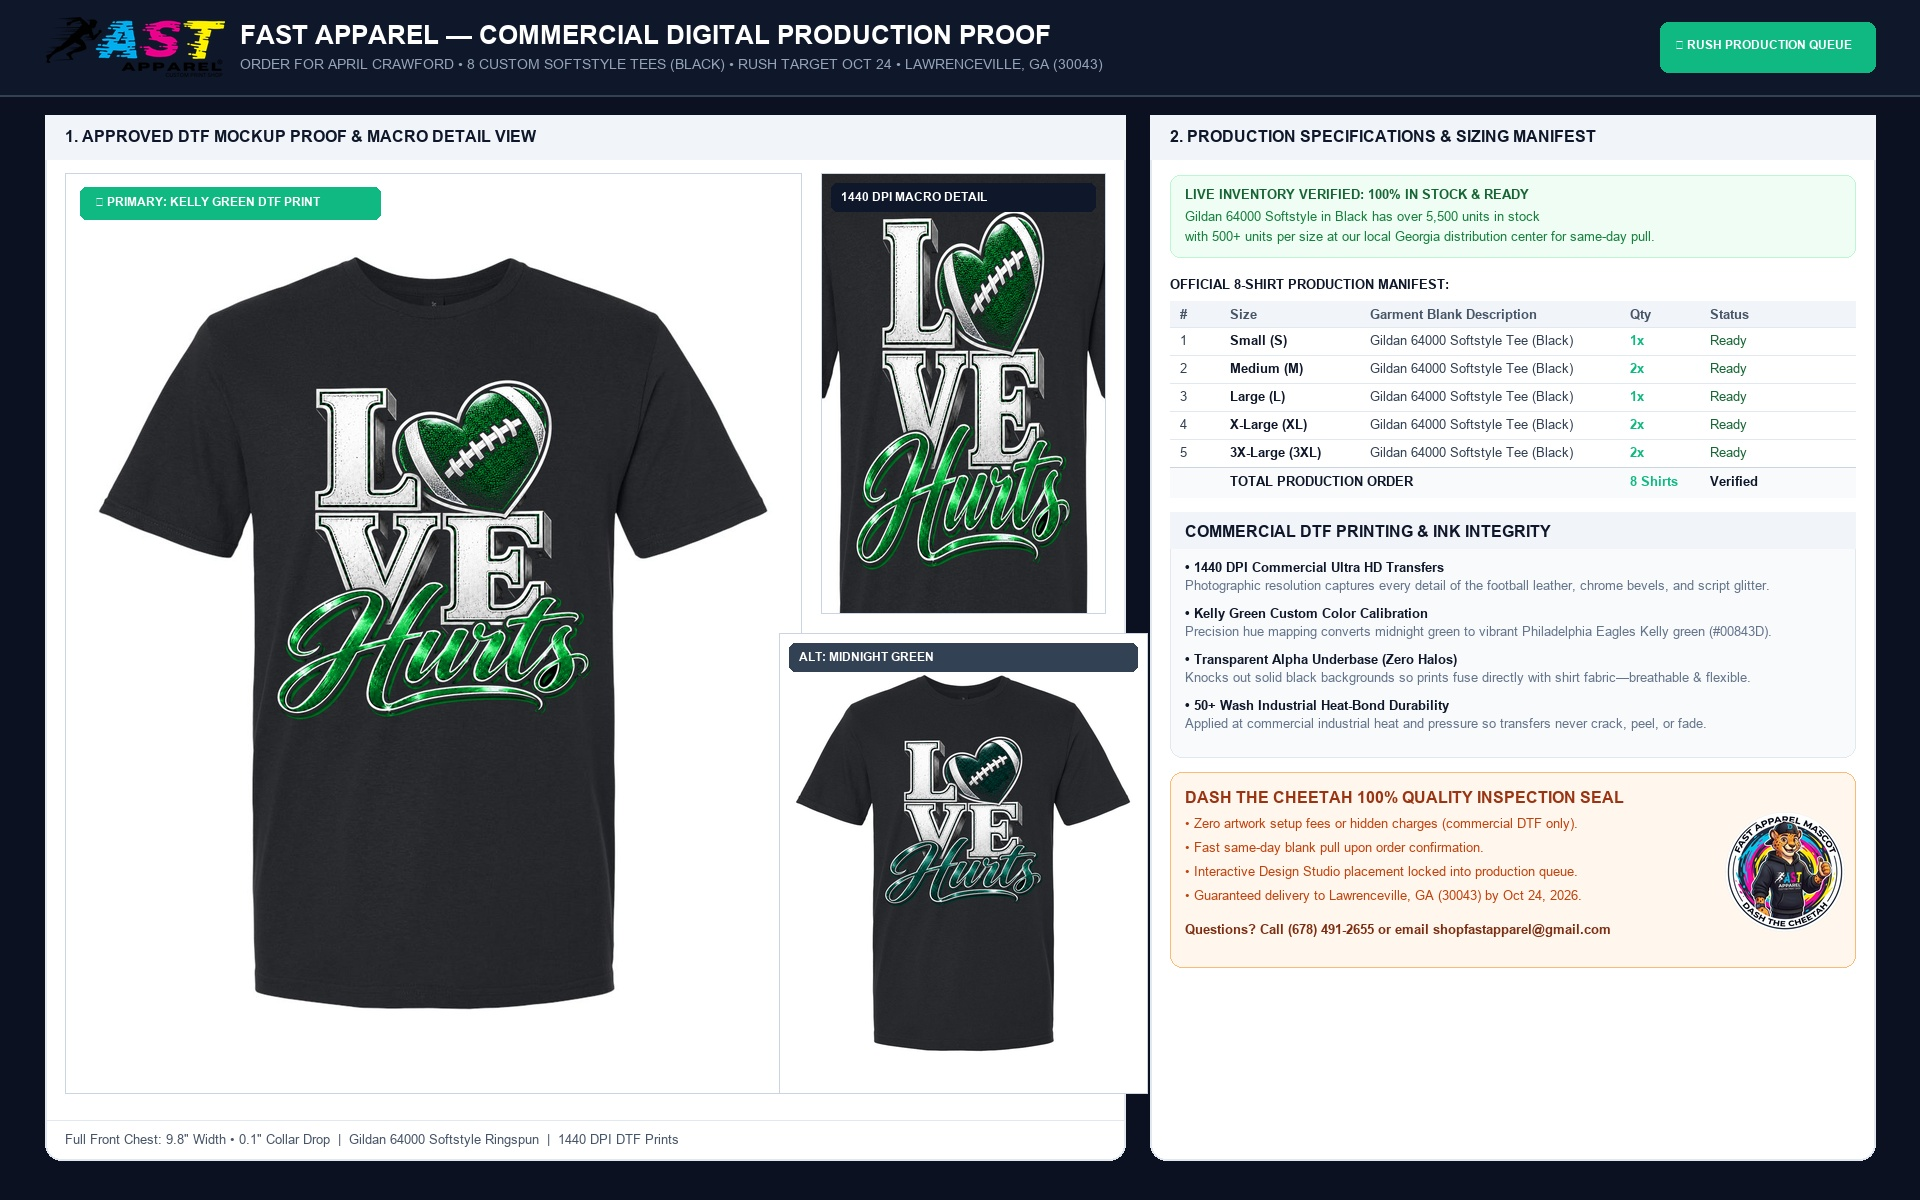
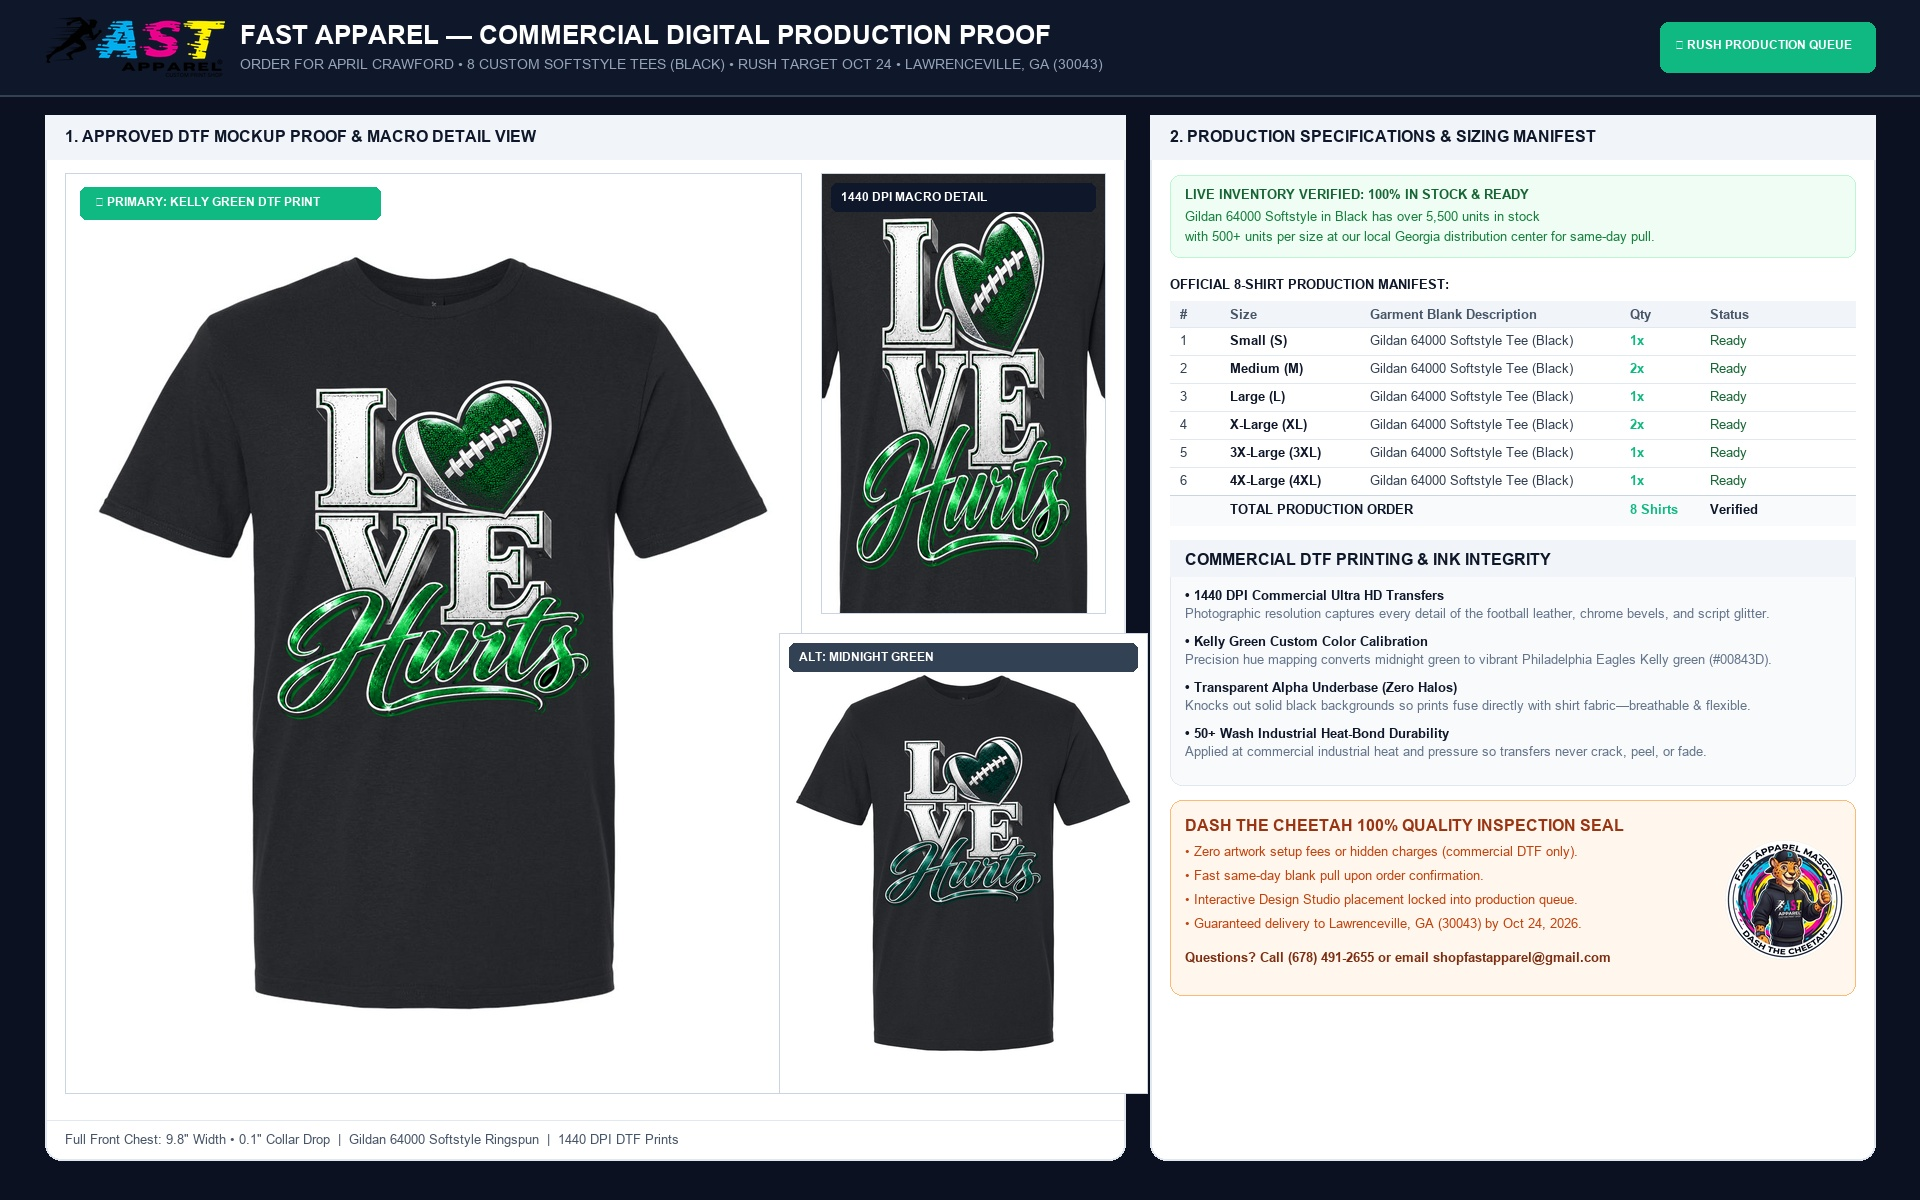
feat(quote): update April Crawford manifest to 1x 3XL and 1x 4XL

Changed region(s): [[0.5938, 0.4008, 0.9688, 0.8325], [0.8438, 0.37, 0.9375, 0.4317]]

diff --git a/placement_tool/public/april/index.html b/placement_tool/public/april/index.html
@@ -237,26 +237,30 @@
             <span>📋 8-Piece Size Breakdown</span>
             <span class="text-amber-400 font-black">⚡ RUSH: Target Oct 24</span>
           </div>
-          <div class="grid grid-cols-5 gap-2 text-center text-slate-300 pt-1">
+          <div class="grid grid-cols-6 gap-2 text-center text-slate-300 pt-1">
             <div class="bg-slate-800/80 p-1.5 rounded-lg border border-slate-700">
-              <span class="text-[10px] text-slate-400 block font-bold">SMALL</span>
+              <span class="text-[9px] text-slate-400 block font-bold">SMALL</span>
               <strong class="text-white text-sm">1x</strong>
             </div>
             <div class="bg-slate-800/80 p-1.5 rounded-lg border border-slate-700">
-              <span class="text-[10px] text-slate-400 block font-bold">MEDIUM</span>
+              <span class="text-[9px] text-slate-400 block font-bold">MEDIUM</span>
               <strong class="text-white text-sm">2x</strong>
             </div>
             <div class="bg-slate-800/80 p-1.5 rounded-lg border border-slate-700">
-              <span class="text-[10px] text-slate-400 block font-bold">LARGE</span>
+              <span class="text-[9px] text-slate-400 block font-bold">LARGE</span>
               <strong class="text-white text-sm">1x</strong>
             </div>
             <div class="bg-slate-800/80 p-1.5 rounded-lg border border-slate-700">
-              <span class="text-[10px] text-slate-400 block font-bold">X-LARGE</span>
+              <span class="text-[9px] text-slate-400 block font-bold">X-LARGE</span>
               <strong class="text-white text-sm">2x</strong>
             </div>
             <div class="bg-slate-800/80 p-1.5 rounded-lg border border-slate-700">
-              <span class="text-[10px] text-amber-400 block font-bold">3X-LARGE</span>
-              <strong class="text-amber-400 text-sm">2x</strong>
+              <span class="text-[9px] text-amber-400 block font-bold">3XL</span>
+              <strong class="text-amber-400 text-sm">1x</strong>
+            </div>
+            <div class="bg-slate-800/80 p-1.5 rounded-lg border border-slate-700">
+              <span class="text-[9px] text-amber-400 block font-bold">4XL</span>
+              <strong class="text-amber-400 text-sm">1x</strong>
             </div>
           </div>
         </div>

diff --git a/render_april_custom_placements.py b/render_april_custom_placements.py
@@ -279,7 +279,8 @@ def render_april_proofs(config_path=None):
         ("2", "Medium (M)", "Gildan 64000 Softstyle Tee (Black)", "2x", "Ready"),
         ("3", "Large (L)", "Gildan 64000 Softstyle Tee (Black)", "1x", "Ready"),
         ("4", "X-Large (XL)", "Gildan 64000 Softstyle Tee (Black)", "2x", "Ready"),
-        ("5", "3X-Large (3XL)", "Gildan 64000 Softstyle Tee (Black)", "2x", "Ready")
+        ("5", "3X-Large (3XL)", "Gildan 64000 Softstyle Tee (Black)", "1x", "Ready"),
+        ("6", "4X-Large (4XL)", "Gildan 64000 Softstyle Tee (Black)", "1x", "Ready")
     ]
 
     row_y = table_y + 26
